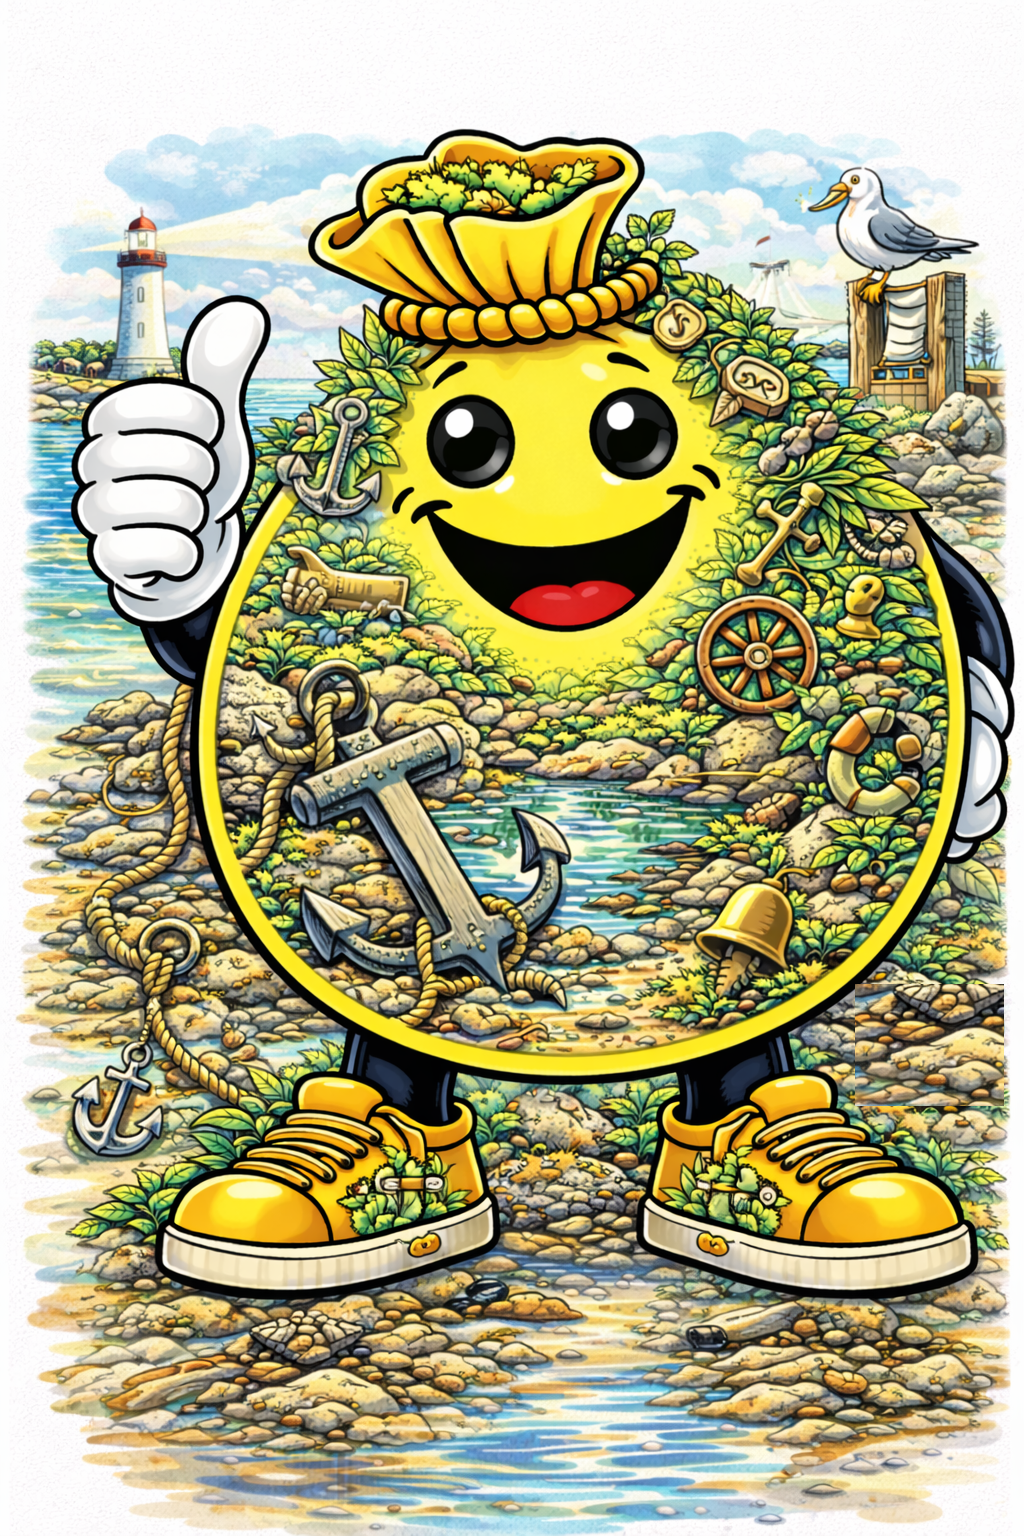
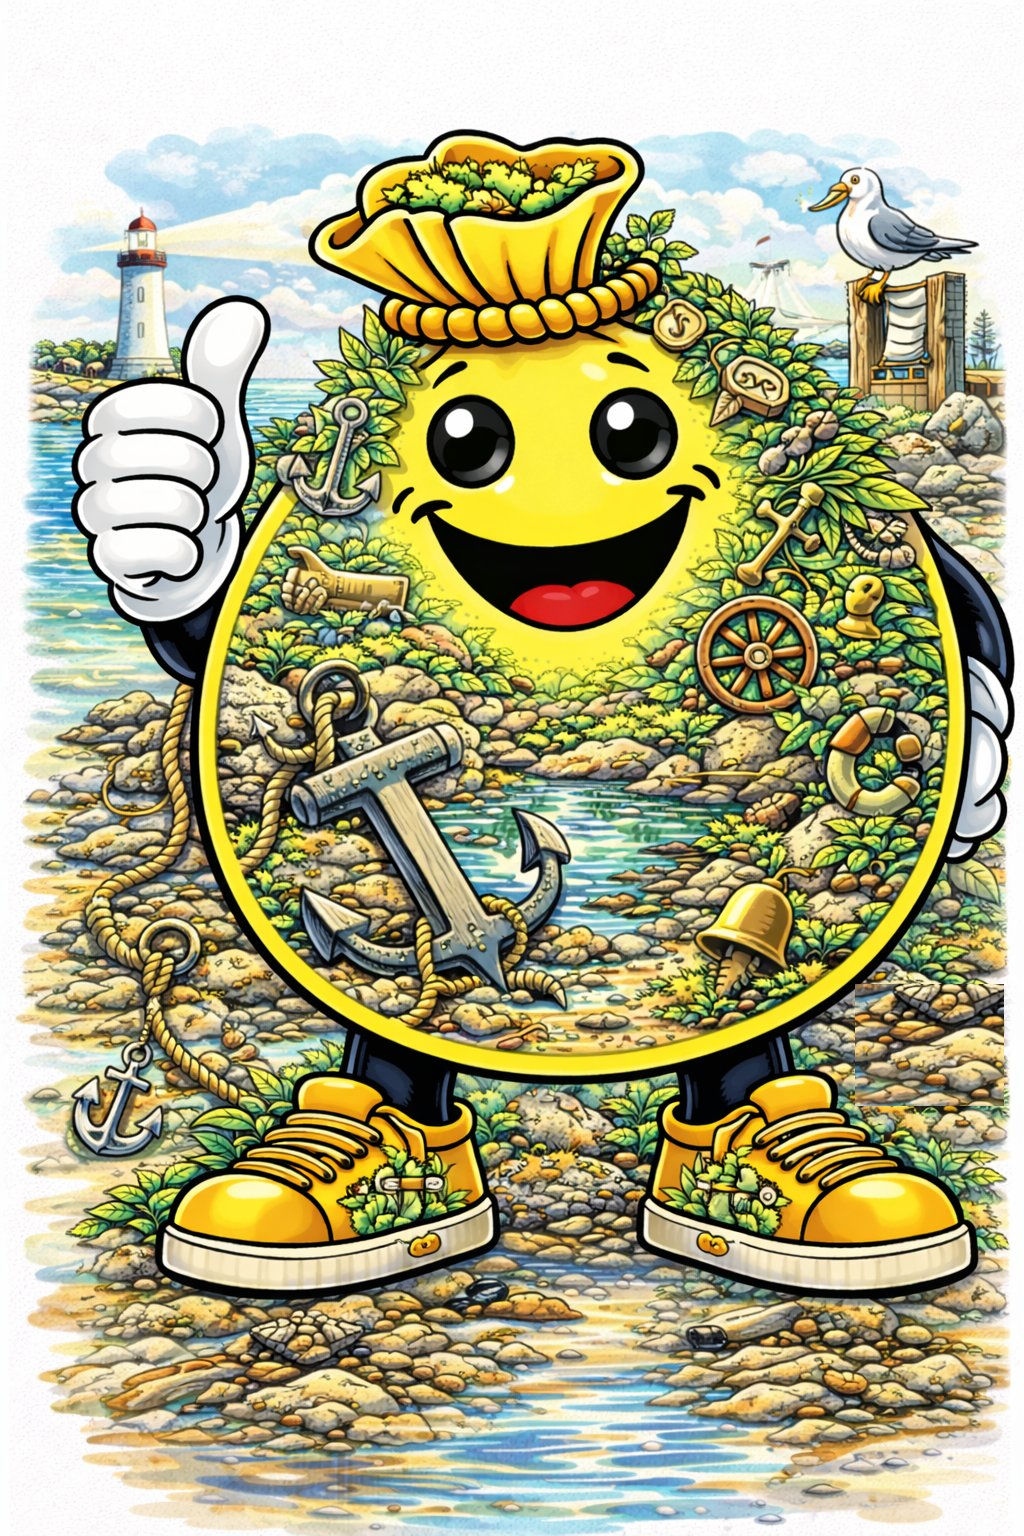
Add files via upload

Changed region(s): [[0.8125, 0.5312, 0.8438, 0.5625]]

diff --git a/Anchor_HiddenPicture.html b/Anchor_HiddenPicture.html
@@ -3,10 +3,10 @@
 <head>
 <meta charset="UTF-8">
 <meta name="viewport" content="width=device-width, initial-scale=1.0">
-<title>Bloom – Hidden Picture | Smile Bags</title>
+<title>Anchor – Hidden Picture | Smile Bags</title>
 <link href="https://fonts.googleapis.com/css2?family=Fredoka+One&family=Nunito:wght@400;600;700;800&display=swap" rel="stylesheet">
 <style>
-:root { --gold:#C8860A; --gold-light:#F5C842; --navy:#1B3A6B; --accent:#AD1457; --accent-light:#F48FB1; --bg:#FFF0F5; --found:#28A745; --radius:14px; }
+:root { --gold:#C8860A; --gold-light:#F5C842; --navy:#0D2447; --accent:#1565C0; --accent-light:#90CAF9; --bg:#E8F2F8; --found:#28A745; --radius:14px; }
 * { box-sizing:border-box; margin:0; padding:0; }
 body { font-family:'Nunito',sans-serif; background:var(--bg); min-height:100vh; padding:0 0 48px; }
 .banner { display:flex; align-items:stretch; width:100%; height:64px; font-family:'Fredoka One',cursive; font-size:28px; letter-spacing:1px; box-shadow:0 3px 12px rgba(0,0,0,0.18); }
@@ -117,38 +117,32 @@ body { font-family:'Nunito',sans-serif; background:var(--bg); min-height:100vh; 
 <body>
 <div class="banner">
   <div class="banner-left">Hidden Picture</div>
-  <div class="banner-right">BLOOM</div>
+  <div class="banner-right">ANCHOR</div>
 </div>
-<div class="tagline">&mdash; Growing into your best self.</div>
+<div class="tagline">&mdash; Holding steady in any storm.</div>
 <div class="layout">
   <div class="img-wrap" id="imgWrap">
-    <img src="https://lhhowell.github.io/kellamsmilebags/Bloom_HiddenPicture.png" alt="Smile Bag – Bloom hidden picture scene" id="mainImg">
-    <div class="hotspot" id="hs-0"  style="left:37%;top:52%" data-id="0"  data-label="&#x1FA9A; Shovel (tall)"         data-hint="A tall garden shovel standing upright on the left side">&#x1FA9A;</div>
-    <div class="hotspot" id="hs-1"  style="left:27%;top:89%" data-id="1"  data-label="&#x1FA9A; Shovel (bottom)"       data-hint="A second shovel at the bottom left near the shoe">&#x1FA9A;</div>
-    <div class="hotspot" id="hs-2"  style="left:41%;top:77%" data-id="2"  data-label="&#x1FAD7; Watering Can"          data-hint="A small watering can in the lower center-left of the bag">&#x1FAD7;</div>
-    <div class="hotspot" id="hs-3"  style="left:65%;top:56%" data-id="3"  data-label="&#x1F331; Seed Packet"           data-hint="A packet labeled SEEDS tucked in the center-right">&#x1F331;</div>
-    <div class="hotspot" id="hs-4"  style="left:76%;top:40%" data-id="4"  data-label="&#x1F41D; Bee"                   data-hint="A buzzing bee near the flowers on the right side">&#x1F41D;</div>
-    <div class="hotspot" id="hs-5"  style="left:81%;top:32%" data-id="5"  data-label="&#x1FAB9; Bird's Nest with Eggs" data-hint="A cozy nest with eggs tucked in the upper right">&#x1FAB9;</div>
-    <div class="hotspot" id="hs-6"  style="left:87%;top:68%" data-id="6"  data-label="&#x1F430; Bunny/Rabbit"          data-hint="A little rabbit peeking out at the bottom right">&#x1F430;</div>
-    <div class="hotspot" id="hs-7"  style="left:45%;top:75%" data-id="7"  data-label="&#x1F41E; Ladybug"               data-hint="A tiny red ladybug among the leaves at the lower center">&#x1F41E;</div>
-    <div class="hotspot" id="hs-8"  style="left:16%;top:52%" data-id="8"  data-label="&#x1F98B; Butterfly Net"         data-hint="A butterfly net partially hidden on the left side">&#x1F98B;</div>
-    <div class="hotspot" id="hs-9"  style="left:41%;top:61%" data-id="9"  data-label="&#x1F344; Garden Mushroom"       data-hint="A mushroom growing in the center-left among the garden plants">&#x1F344;</div>
-    <div class="hotspot" id="hs-10" style="left:50%;top:60%" data-id="10" data-label="&#x1F33F; Tiny Seedling"         data-hint="A tiny sprouting plant in the center of the scene">&#x1F33F;</div>
-    <div class="hotspot" id="hs-11" style="left:72%;top:68%" data-id="11" data-label="&#x1FAB7; Flower Bulb"           data-hint="A flower bulb or root cluster near the bottom right plants">&#x1FAB7;</div>
-    <div class="hotspot" id="hs-12" style="left:57%;top:92%" data-id="12" data-label="&#x1F41B; Hidden Bug"            data-hint="A tan-faced bug with antennae hiding near the bottom center">&#x1F41B;</div>
-    <div class="hotspot" id="hs-13" style="left:27%;top:43%" data-id="13" data-label="&#x1FA94; Hanging Lantern"       data-hint="A decorative lantern hanging among the flowers on the left">&#x1FA94;</div>
-    <div class="hotspot" id="hs-14" style="left:42%;top:45%" data-id="14" data-label="&#x1F41B; Caterpillar"           data-hint="A small caterpillar blended into the foliage in the center">&#x1F41B;</div>
-    <div class="hotspot" id="hs-15" style="left:23%;top:12%" data-id="15" data-label="&#x1F33B; Sunflower"              data-hint="A bright sunflower blooming in the top left of the scene">&#x1F33B;</div>
-    <div class="hotspot" id="hs-16" style="left:86%;top:20%" data-id="16" data-label="&#x1F33A; Tulips"                data-hint="Colorful tulips blooming in the top right area">&#x1F33A;</div>
-    <div class="hotspot" id="hs-17" style="left:33%;top:30%" data-id="17" data-label="&#x1F337; Pink Tulip"            data-hint="A pink tulip on the left side of the bag">&#x1F337;</div>
-    <div class="hotspot" id="hs-18" style="left:86%;top:40%" data-id="18" data-label="&#x1F33B; Sunflower (right)"     data-hint="A sunflower on the right side of the bag">&#x1F33B;</div>
-    <div class="hotspot" id="hs-19" style="left:19%;top:72%" data-id="19" data-label="&#x1F339; Red Rose"              data-hint="A red rose blooming at the lower left">&#x1F339;</div>
+    <img src="https://lhhowell.github.io/kellamsmilebags/Anchor_HiddenPicture.png" alt="Smile Bag – Anchor hidden picture scene" id="mainImg">
+    <div class="hotspot" id="hs-0" style="left:8%;top:6%" data-id="0" data-label="&#x2693; Anchor in the Clouds" data-hint="A small ship anchor floating among the clouds in the upper-left sky">&#x2693;</div>
+    <div class="hotspot" id="hs-1" style="left:6%;top:20%" data-id="1" data-label="&#x1F5FC; Lighthouse" data-hint="A lighthouse in the background near the foliage">&#x1F5FC;</div>
+    <div class="hotspot" id="hs-2" style="left:38%;top:88%" data-id="2" data-label="&#x2B50; Starfish" data-hint="A starfish resting on the ground, bottom center-left">&#x2B50;</div>
+    <div class="hotspot" id="hs-3" style="left:80%;top:60%" data-id="3" data-label="&#x1F422; Turtle" data-hint="A turtle hiding in its green shell on the right side">&#x1F422;</div>
+    <div class="hotspot" id="hs-4" style="left:18%;top:82%" data-id="4" data-label="&#x1F6A4; Small Boat" data-hint="A small boat tied safely to a dock, bottom left">&#x1F6A4;</div>
+    <div class="hotspot" id="hs-5" style="left:50%;top:90%" data-id="5" data-label="&#x1F9ED; Compass Rose" data-hint="A compass rose in a puddle, bottom center">&#x1F9ED;</div>
+    <div class="hotspot" id="hs-6" style="left:85%;top:18%" data-id="6" data-label="&#x1F426; Bird on a Branch" data-hint="A bird holding onto a branch in the top right">&#x1F426;</div>
+    <div class="hotspot" id="hs-7" style="left:76%;top:76%" data-id="7" data-label="&#x1FAA2; Rope Knot" data-hint="A rope tied in a knot, bottom right">&#x1FAA2;</div>
+    <div class="hotspot" id="hs-8" style="left:82%;top:48%" data-id="8" data-label="&#x1F6DF; Life Preserver (mid-right)" data-hint="A life preserver ring in the middle-right area">&#x1F6DF;</div>
+    <div class="hotspot" id="hs-9" style="left:72%;top:78%" data-id="9" data-label="&#x1F6DF; Life Preserver (bottom)" data-hint="A second life preserver ring near the bottom right">&#x1F6DF;</div>
+    <div class="hotspot" id="hs-10" style="left:88%;top:12%" data-id="10" data-label="&#x1F330; Acorn" data-hint="An acorn holding tight to a branch, top right near the bird">&#x1F330;</div>
+    <div class="hotspot" id="hs-11" style="left:25%;top:78%" data-id="11" data-label="&#x1F986; Rubber Duck" data-hint="A rubber duck near the dock, bottom left">&#x1F986;</div>
+    <div class="hotspot" id="hs-12" style="left:38%;top:8%" data-id="12" data-label="&#x26C8;&#xFE0F; Lightning Storm Clouds" data-hint="Lightning storm clouds in the background sky">&#x26C8;&#xFE0F;</div>
+    <div class="hotspot" id="hs-13" style="left:82%;top:32%" data-id="13" data-label="&#x1F499; Heart Charm" data-hint="A hanging blue heart charm or lock, right side near a post">&#x1F499;</div>
   </div>
   <div class="sidebar">
     <div class="score-card">
       <div class="score-label">Objects Found</div>
       <div class="score-num" id="scoreNum">0</div>
-      <div class="score-denom">out of 20</div>
+      <div class="score-denom">out of 14</div>
       <div class="progress-bar"><div class="progress-fill" id="progressFill"></div></div>
     </div>
     <div class="checklist-card">
@@ -162,10 +156,10 @@ body { font-family:'Nunito',sans-serif; background:var(--bg); min-height:100vh; 
 </div>
 <div class="win-overlay" id="winOverlay">
   <div class="win-box">
-    <div class="win-emoji">&#x1F389;&#x1F338;&#x1F389;</div>
-    <div class="win-title">You're in Full Bloom!</div>
-    <div class="win-sub">You found all 20 hidden objects in the Bloom scene!<br><br>
-      <em style="color:var(--gold);font-weight:800;">"Growing into your best self."</em>
+    <div class="win-emoji">&#x1F389;&#x2693;&#xFE0F;&#x1F389;</div>
+    <div class="win-title">You're Anchored Strong!</div>
+    <div class="win-sub">You found all 14 hidden objects in the Anchor scene!<br><br>
+      <em style="color:var(--gold);font-weight:800;">"Holding steady in any storm."</em>
     </div>
     <div class="win-actions">
       <button class="btn btn-gold"   onclick="resetGame();document.getElementById('winOverlay').classList.remove('show')">&#x1F504; Play Again</button>
@@ -177,26 +171,20 @@ body { font-family:'Nunito',sans-serif; background:var(--bg); min-height:100vh; 
 <p class="credit">Smile Bags: A Word &amp; Wonder Experience</p>
 <script>
 const OBJECTS = [
-  {id:0,  emoji:"&#x1FA9A;", label:"Shovel (tall)"},
-  {id:1,  emoji:"&#x1FA9A;", label:"Shovel (bottom)"},
-  {id:2,  emoji:"&#x1FAD7;", label:"Watering Can"},
-  {id:3,  emoji:"&#x1F331;", label:"Seed Packet"},
-  {id:4,  emoji:"&#x1F41D;", label:"Bee"},
-  {id:5,  emoji:"&#x1FAB9;", label:"Bird's Nest with Eggs"},
-  {id:6,  emoji:"&#x1F430;", label:"Bunny/Rabbit"},
-  {id:7,  emoji:"&#x1F41E;", label:"Ladybug"},
-  {id:8,  emoji:"&#x1F98B;", label:"Butterfly Net"},
-  {id:9,  emoji:"&#x1F344;", label:"Garden Mushroom"},
-  {id:10, emoji:"&#x1F33F;", label:"Tiny Seedling"},
-  {id:11, emoji:"&#x1FAB7;", label:"Flower Bulb"},
-  {id:12, emoji:"&#x1F41B;", label:"Hidden Bug"},
-  {id:13, emoji:"&#x1FA94;", label:"Hanging Lantern"},
-  {id:14, emoji:"&#x1F41B;", label:"Caterpillar"},
-  {id:15, emoji:"&#x1F33B;", label:"Sunflower"},
-  {id:16, emoji:"&#x1F33A;", label:"Tulips"},
-  {id:17, emoji:"&#x1F337;", label:"Pink Tulip"},
-  {id:18, emoji:"&#x1F33B;", label:"Sunflower (right)"},
-  {id:19, emoji:"&#x1F339;", label:"Red Rose"}
+  {id:0 , emoji:"&#x2693;", label:"Anchor in the Clouds"},
+  {id:1 , emoji:"&#x1F5FC;", label:"Lighthouse"},
+  {id:2 , emoji:"&#x2B50;", label:"Starfish"},
+  {id:3 , emoji:"&#x1F422;", label:"Turtle"},
+  {id:4 , emoji:"&#x1F6A4;", label:"Small Boat"},
+  {id:5 , emoji:"&#x1F9ED;", label:"Compass Rose"},
+  {id:6 , emoji:"&#x1F426;", label:"Bird on a Branch"},
+  {id:7 , emoji:"&#x1FAA2;", label:"Rope Knot"},
+  {id:8 , emoji:"&#x1F6DF;", label:"Life Preserver (mid-right)"},
+  {id:9 , emoji:"&#x1F6DF;", label:"Life Preserver (bottom)"},
+  {id:10, emoji:"&#x1F330;", label:"Acorn"},
+  {id:11, emoji:"&#x1F986;", label:"Rubber Duck"},
+  {id:12, emoji:"&#x26C8;&#xFE0F;", label:"Lightning Storm Clouds"},
+  {id:13, emoji:"&#x1F499;", label:"Heart Charm"}
 ];
 const TOTAL=OBJECTS.length; let found=new Set(),hintUsed=[];
 const cl=document.getElementById('checklist');
@@ -206,7 +194,7 @@ function updateScore(){const n=found.size;document.getElementById('scoreNum').te
 function showToast(msg){const t=document.getElementById('toast');t.innerHTML=msg;t.classList.add('show');setTimeout(()=>t.classList.remove('show'),2400);}
 function giveHint(){const unfound=OBJECTS.filter(o=>!found.has(o.id));if(!unfound.length){showToast('&#x1F389; You already found everything!');return;}const candidates=unfound.filter(o=>!hintUsed.includes(o.id));const pick=candidates.length?candidates[Math.floor(Math.random()*candidates.length)]:unfound[Math.floor(Math.random()*unfound.length)];hintUsed.push(pick.id);const hs=document.getElementById('hs-'+pick.id);document.querySelectorAll('.hotspot.hint-pulse').forEach(h=>h.classList.remove('hint-pulse'));hs.classList.add('hint-pulse');showToast('&#x1F4A1; Hint: '+hs.dataset.hint);setTimeout(()=>hs.classList.remove('hint-pulse'),3500);}
 function resetGame(){found.clear();hintUsed=[];document.querySelectorAll('.hotspot').forEach(h=>h.classList.remove('found','hint-pulse'));document.querySelectorAll('.check-item').forEach(c=>c.classList.remove('found-item'));document.querySelectorAll('.check-box').forEach(c=>c.classList.remove('checked'));updateScore();}
-function downloadActivity(){const cl=document.getElementById('checklist');const saved=cl?cl.innerHTML:'';if(cl)cl.innerHTML='';const blob=new Blob([document.documentElement.outerHTML],{type:'text/html'});if(cl)cl.innerHTML=saved;const a=document.createElement('a');a.href=URL.createObjectURL(blob);a.download='Bloom_HiddenPicture_Activity.html';a.click();}
+function downloadActivity(){const cl=document.getElementById('checklist');const saved=cl?cl.innerHTML:'';if(cl)cl.innerHTML='';const blob=new Blob([document.documentElement.outerHTML],{type:'text/html'});if(cl)cl.innerHTML=saved;const a=document.createElement('a');a.href=URL.createObjectURL(blob);a.download='Anchor_HiddenPicture_Activity.html';a.click();}
 function toggleCal(){document.body.classList.toggle('calibrate-mode');}
 </script>
 <button class="cal-btn" onclick="toggleCal()">&#x1F527; Cal</button>
